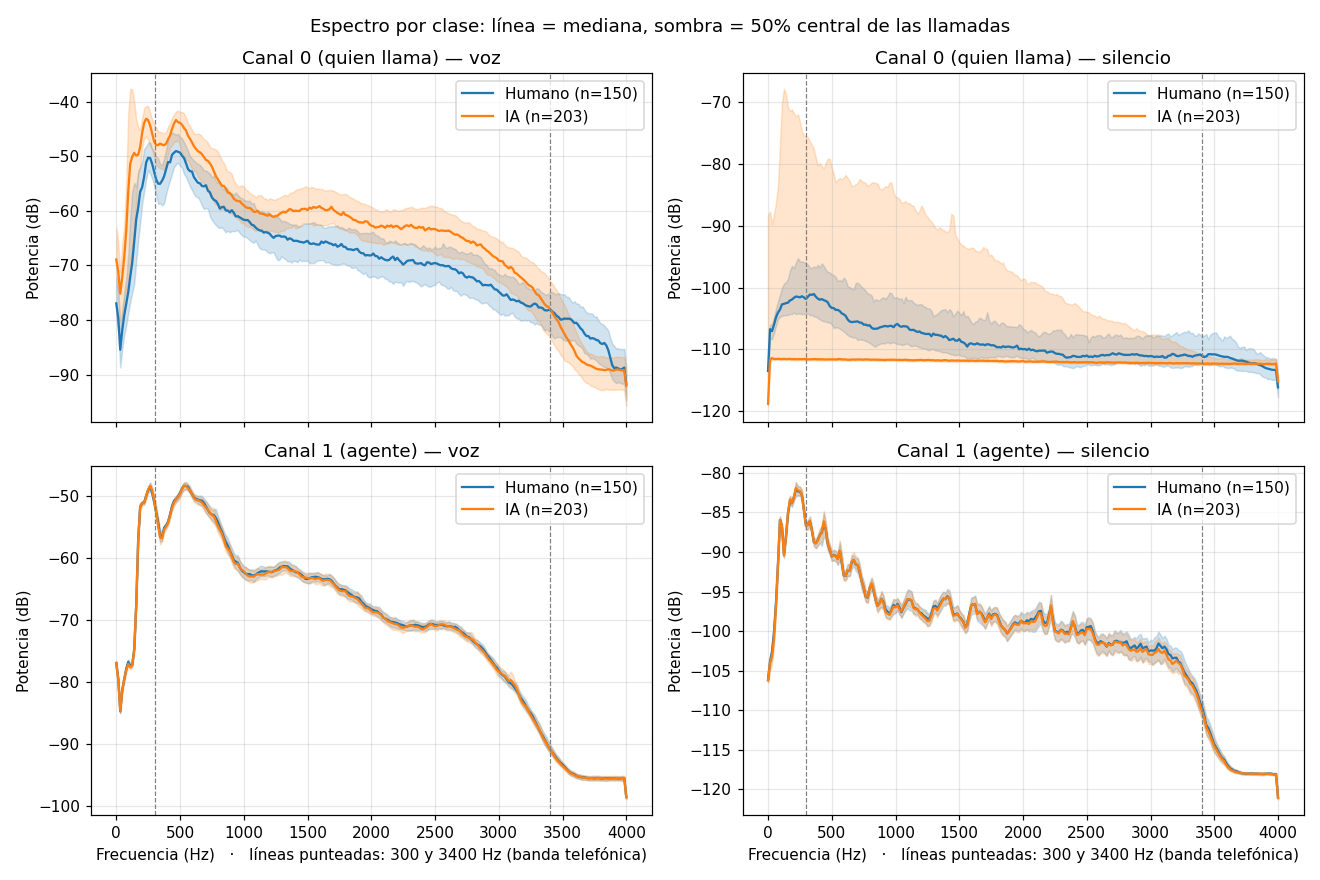
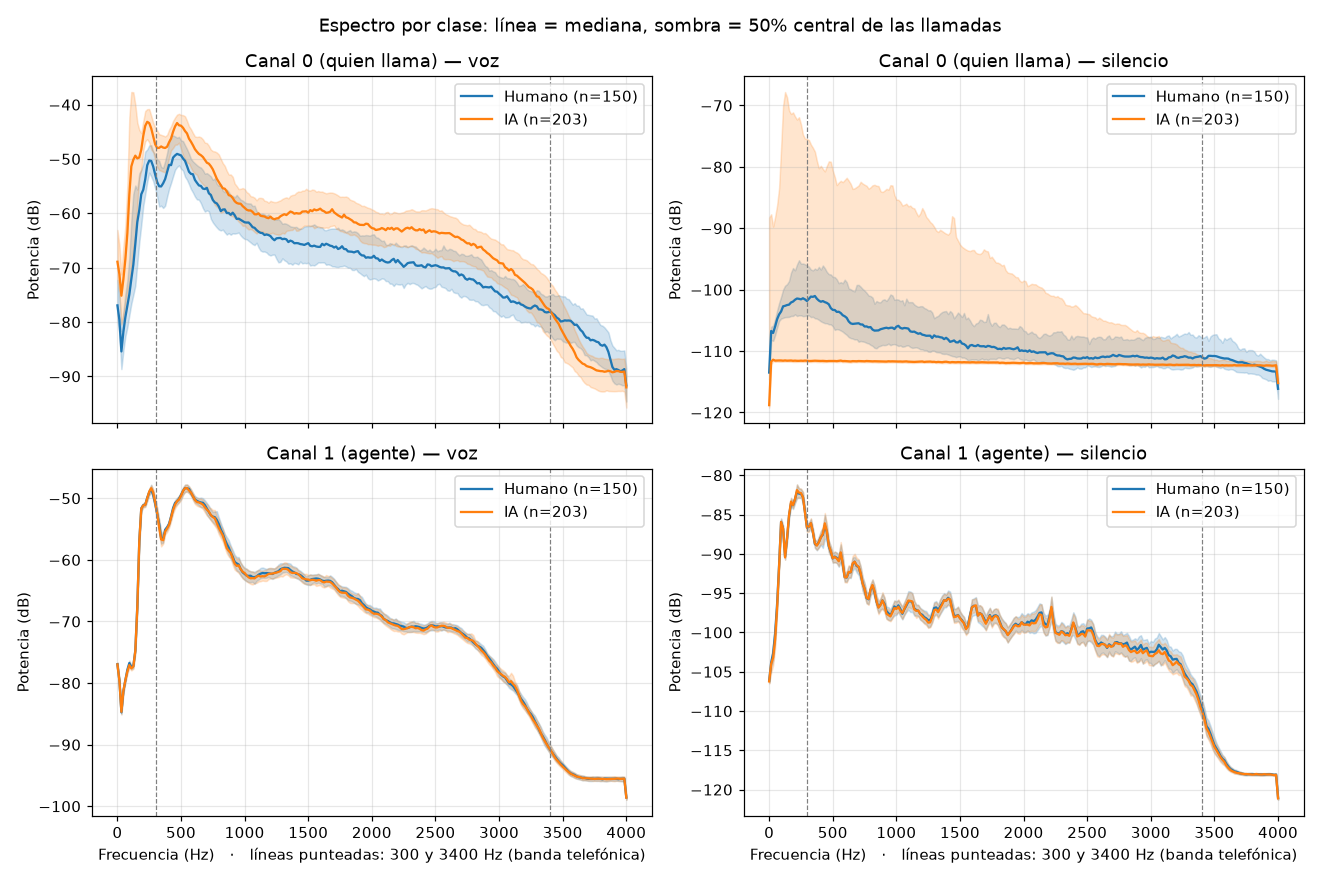
Rfactor de fase 1

diff --git a/fase0/trampas.py b/fase0/trampas.py
@@ -318,7 +318,7 @@ def graficar(psd, es_ia, ruta):
 
 def main():
     p = argparse.ArgumentParser(description=__doc__, formatter_class=argparse.RawDescriptionHelpFormatter)
-    p.add_argument("--datos", required=True, type=Path, help="carpeta del dataset (manifest.csv, audio/, turns/)")
+    p.add_argument("--datos", required=True, type=Path, help="carpeta del dataset (manifest.csv, ../../Altur/audio/, ../../Altur/turns/)")
     p.add_argument("--rehacer", action="store_true", help="volver a medir aunque exista el caché")
     args = p.parse_args()
     cache = args.datos / "fase0"
